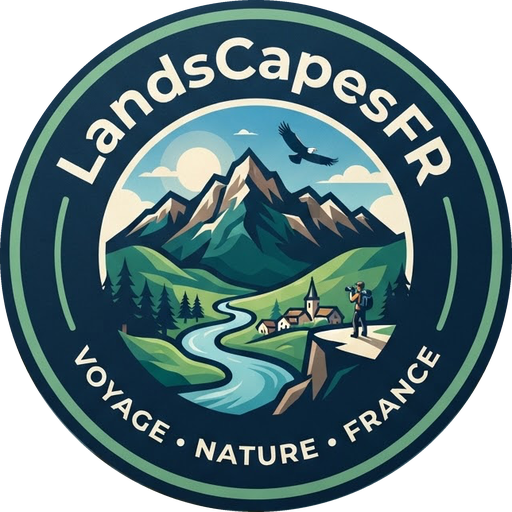
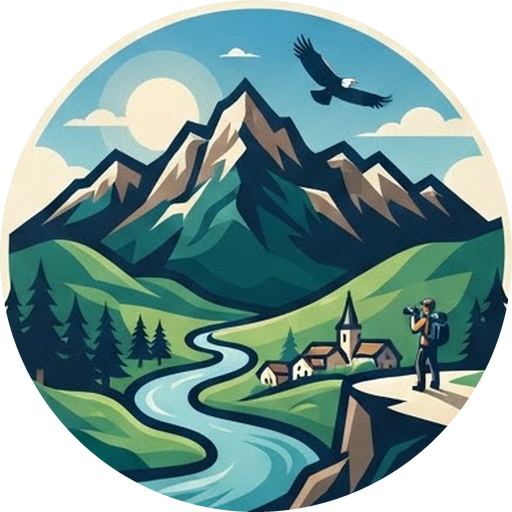
Filigrane Voice Studio : juste le rond, le medaillon interieur
L'ecusson complet portait un anneau avec du texte, illisible a la taille d'un
filigrane -- ce qui m'avait fait l'agrandir a 18 % et 0,85 d'opacite pour le
rendre lisible. C'est le medaillon interieur qui etait demande.

Il a ete mesure sur l'image fournie (son liseré clair va de x=314 a x=709 sur
la ligne centrale, soit un centre a 511,5 et un rayon de 197,5), recadre deux
pixels a l'interieur pour ne garder aucun eclat de l'anneau, puis masque par un
cercle sur-echantillonne.

Consequence : plus de texte a lire, donc plus aucune raison d'avoir une taille
et une opacite propres. Voice Studio reprend celles du bloc commun (14 %, 0,70,
comme les clips) et les deux constantes disparaissent -- deux jeux de valeurs a
tenir a jour finissent toujours par diverger. Les cles
voice_studio_size_percent et voice_studio_opacity restent, pour le regler
separement si besoin.

Suite complete verte a 855 tests, dont le test de detourage (coins
transparents, centre opaque) qui vaut aussi pour ce nouveau cercle.

Claude-Session: https://claude.ai/code/session_0131fYQ2W8zFMFdX7XTz2bur

diff --git a/tests/test_voice_studio_video.py b/tests/test_voice_studio_video.py
@@ -515,8 +515,10 @@ class TestFiligrane:
             "le logo doit être dans assets/, sinon l'exe compilé ne l'aura pas"
 
     def test_le_logo_est_un_disque_detoure(self):
-        """Un carre opaque poserait un rectangle sur la video. Les coins
-        doivent etre transparents et le centre opaque."""
+        """Un carre opaque poserait un rectangle sur la video, et l'image
+        fournie montrait le medaillon pose sur une photo : ce sont les deux
+        raisons du detourage. Les coins doivent etre transparents et le centre
+        opaque."""
         from PIL import Image
 
         from video.watermark import voice_studio_image_path
@@ -530,19 +532,17 @@ class TestFiligrane:
                 assert pixels[corner][3] == 0, f"coin {corner} non transparent"
             assert pixels[w // 2, h // 2][3] == 255
 
-    def test_il_est_pose_plus_grand_et_plus_opaque_que_celui_des_clips(self, monkeypatch):
-        """Ce logo porte du texte : a la taille du pictogramme des clips, ce
-        texte n'est plus lisible."""
-        from video import watermark as watermark_module
+    def test_seule_l_image_change_par_rapport_aux_clips(self, monkeypatch):
+        """Taille et opacite viennent du bloc commun : le medaillon tient a la
+        meme taille que la marque des clips, et deux valeurs a tenir a jour
+        finiraient par diverger."""
         from voice_studio.video_service import _watermark_for
 
-        block = self._block()
+        block = self._block(size_percent=14, opacity=0.7)
         self._patch(monkeypatch, block)
         chosen = _watermark_for(VideoSettings(watermark_enabled=True))
-        assert chosen.size_percent == watermark_module.VOICE_STUDIO_SIZE_PERCENT
-        assert chosen.opacity == watermark_module.VOICE_STUDIO_OPACITY
-        assert chosen.size_percent > block["size_percent"]
-        assert chosen.opacity > block["opacity"]
+        assert chosen.size_percent == 14
+        assert chosen.opacity == pytest.approx(0.7)
 
     def test_la_position_et_la_marge_restent_celles_de_la_configuration(self, monkeypatch):
         """Un seul bloc de reglages : seuls l'image, la taille et l'opacite

diff --git a/voice_studio/video_service.py b/voice_studio/video_service.py
@@ -278,13 +278,15 @@ def _watermark_for(settings) -> object | None:
             return None
         chosen = str(block.get("voice_studio_image") or "").strip()
         block["image"] = chosen or str(watermark_module.voice_studio_image_path())
-        # Taille et opacite propres a ce logo : il porte du texte, qui
-        # disparait a la taille du pictogramme des clips. Une valeur mise dans
-        # la configuration gagne, sinon on prend celle de Voice Studio.
-        block["size_percent"] = (block.get("voice_studio_size_percent")
-                                 or watermark_module.VOICE_STUDIO_SIZE_PERCENT)
-        block["opacity"] = (block.get("voice_studio_opacity")
-                            or watermark_module.VOICE_STUDIO_OPACITY)
+        # Taille et opacite : celles du bloc commun. Le logo de Voice Studio est
+        # un medaillon sans texte, comme la marque des clips -- il tient donc a
+        # la meme taille, et il n'y a aucune raison d'avoir deux valeurs a
+        # tenir a jour. Les deux cles ne servent qu'a le regler separement si
+        # un jour c'est necessaire.
+        for key, override in (("size_percent", "voice_studio_size_percent"),
+                              ("opacity", "voice_studio_opacity")):
+            if block.get(override):
+                block[key] = block[override]
         return watermark_module.from_config(block)
     except Exception as error:                    # pragma: no cover - config abimee
         logger.warning(f"Filigrane ignoré ({error}).")

diff --git a/video/watermark.py b/video/watermark.py
@@ -27,13 +27,6 @@ DEFAULT_IMAGE = "branding/watermark.png"
 # transparent) donc mêmes reglages de taille, de marge et d'opacite -- seule
 # l'image change.
 VOICE_STUDIO_IMAGE = "branding/watermark-landscapesfr.png"
-# Ce logo-la porte du TEXTE (un nom sur l'anneau, une baseline en bas). A 14 %
-# de la largeur, comme la marque des clips, ce texte n'est plus lisible : un
-# ecusson detaille a besoin de plus de place et de plus d'opacite qu'un
-# pictogramme. D'ou deux valeurs propres a Voice Studio, remplacables dans
-# config/editing.json.
-VOICE_STUDIO_SIZE_PERCENT = 18.0
-VOICE_STUDIO_OPACITY = 0.85
 
 POSITIONS = ("haut-gauche", "haut-centre", "haut-droite",
              "bas-gauche", "bas-centre", "bas-droite")

diff --git a/README.md b/README.md
@@ -219,13 +219,13 @@ de generer.
 **Le filigrane n'est pas celui des clips.** Une video narree n'est pas publiee
 sous le meme nom qu'un clip : Voice Studio pose
 `assets/branding/watermark-landscapesfr.png`, le rendu des clips garde
-`watermark.png`. Position et marge viennent du meme bloc de configuration (un
-seul jeu de reglages), mais la taille et l'opacite sont propres a ce logo : il
-porte du texte, illisible a la taille d'un pictogramme. Les trois valeurs sont
-remplacables par `voice_studio_image`, `voice_studio_size_percent` et
-`voice_studio_opacity` dans `config/editing.json`, sans toucher a celui des
-clips. La bande basse qu'il occupe reste le plancher des sous-titres, qui ne
-peuvent donc pas lui passer dessus.
+`watermark.png`. Seule l'image change -- position, marge, taille et opacite
+viennent du meme bloc de configuration, un seul jeu de reglages a tenir a jour.
+`voice_studio_image`, `voice_studio_size_percent` et `voice_studio_opacity`
+dans `config/editing.json` permettent de regler le logo de Voice Studio
+separement si besoin, sans toucher a celui des clips. La bande basse qu'il
+occupe reste le plancher des sous-titres, qui ne peuvent donc pas lui passer
+dessus.
 
 **Aucun nouveau systeme.** La voix vient du bloc « Generer une voix » juste
 au-dessus (meme moteur, meme voix, meme vitesse, meme cache) ; les styles de
